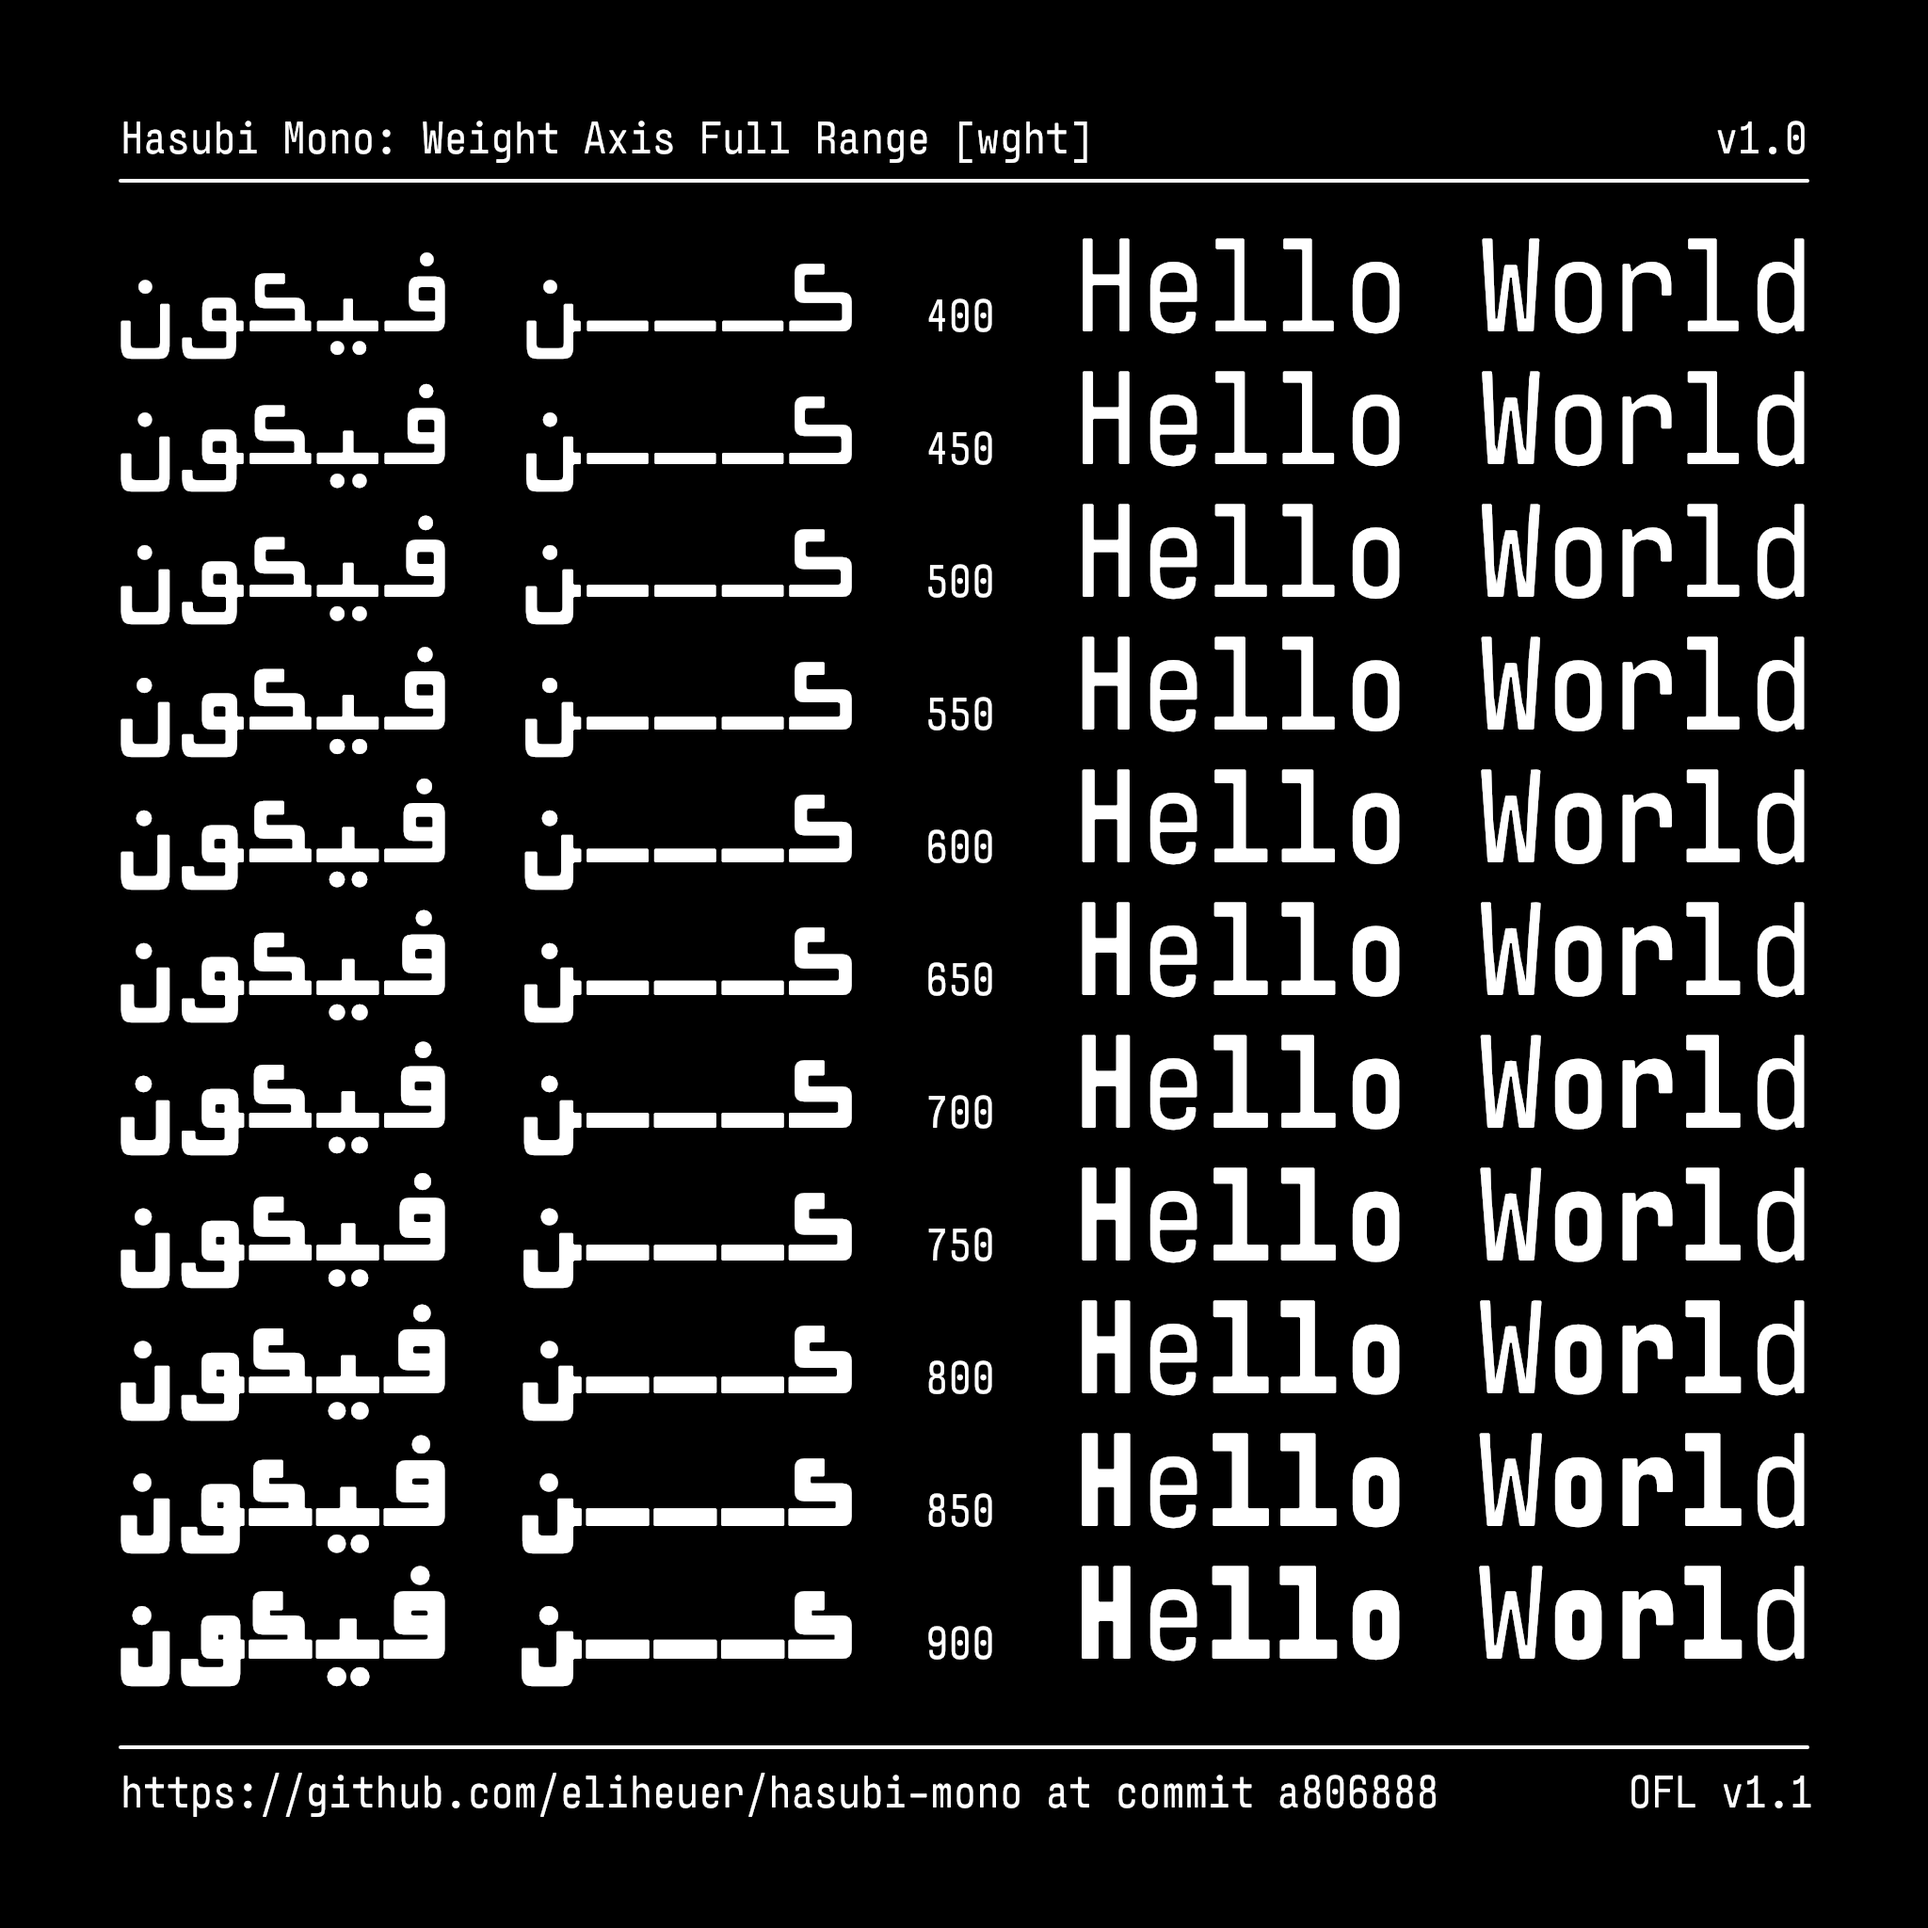
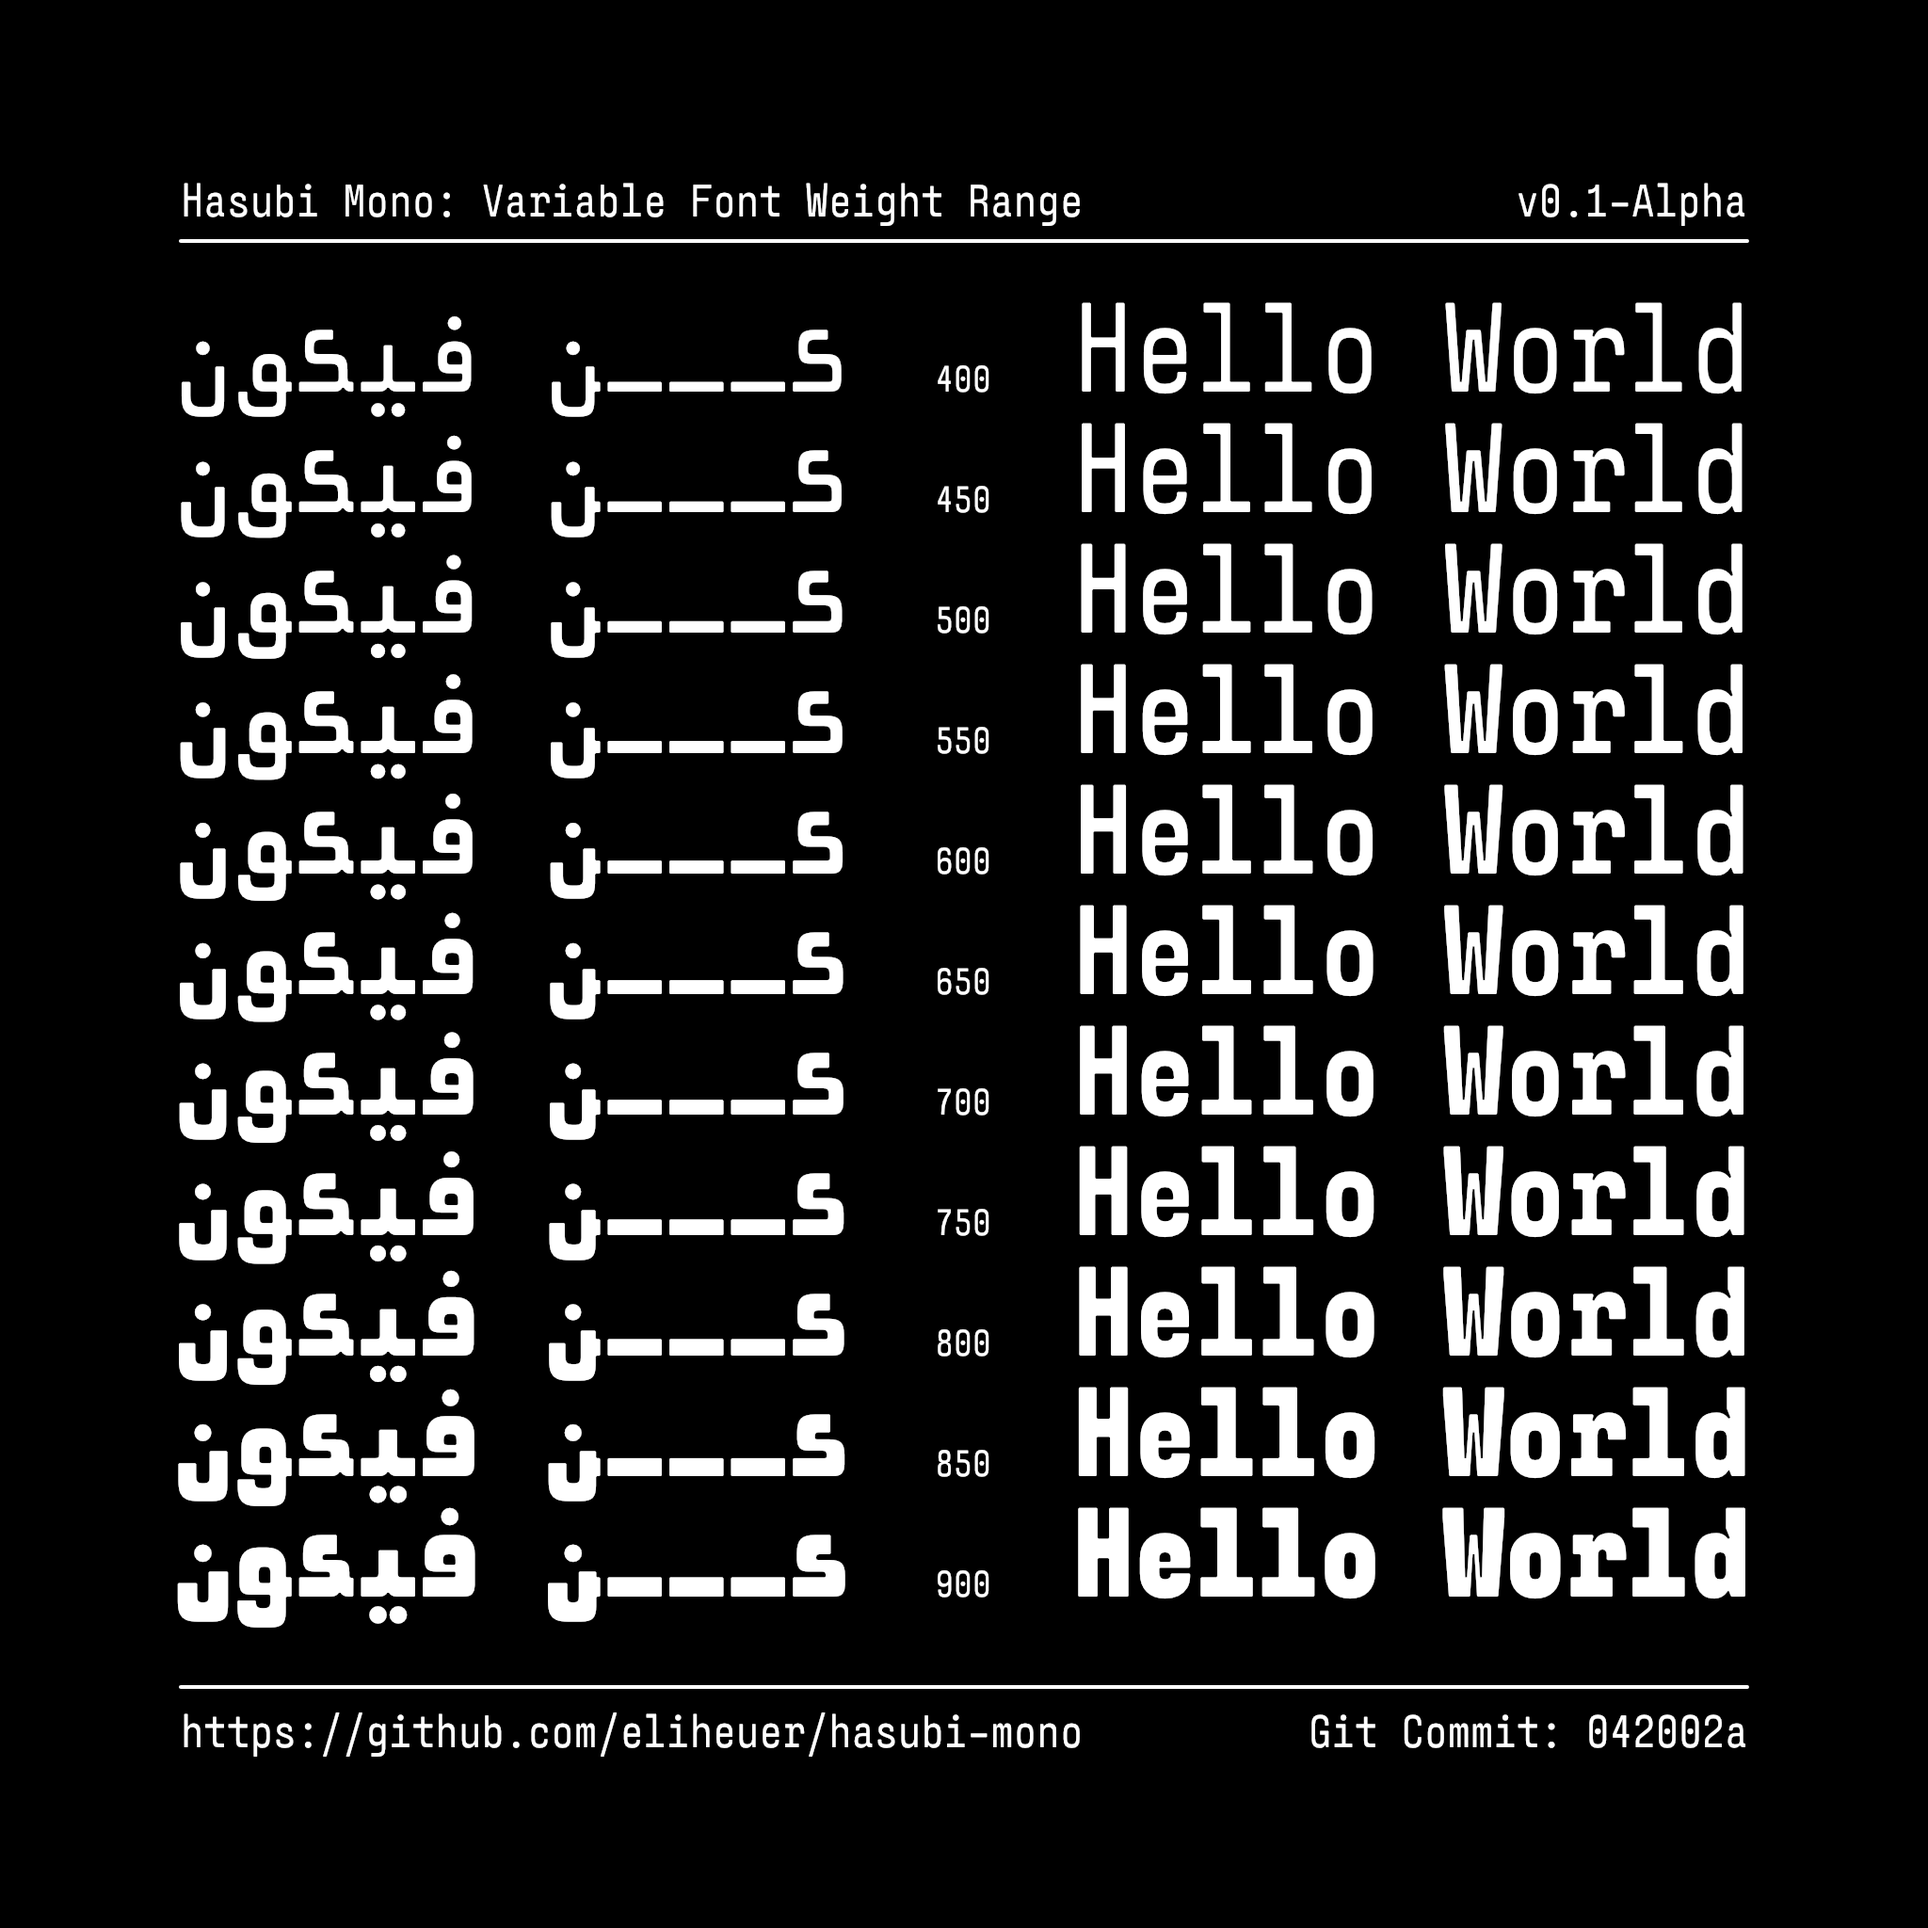
Add variable font demo to the main README

diff --git a/documentation/drawbot/square-image-002.py b/documentation/drawbot/square-image-002.py
@@ -93,24 +93,24 @@ def draw_main_text():
     #text("هـــــو الشافي الكافي المعين الغفور الرحيم", ((MARGIN-4)+MARGIN*13.55, TOP_TEXT))
 
     font_var = 400
-    TRACKING = 132
+    TRACKING = 128
     track = 128
     for i in range(11):
         fontVariations(wght = font_var)
-        text("Hello World", (MARGIN * 9, (MARGIN*13)-(i*TRACKING)))
+        text("Hello World", (MARGIN * 8.9, (MARGIN*12.75)-(i*TRACKING)))
         print("font_var = ", font_var)
         font_var += 50
     font_var = 400
     for i in range(11):
         fontVariations(wght = font_var)
-        text("كـــن فيكون", (MARGIN*7, (MARGIN*13)-(i*TRACKING)))
+        text("كـــن فيكون", (MARGIN*7.06, (MARGIN*12.75)-(i*TRACKING)))
         font_var += 50
 
     fontVariations(wght = 400)
     fontSize(77.5/2)
     font_weights = ["400","450","500","550","600","650","700","750","800","850","900","950"]
     for i in range(11):
-        text(font_weights[i], (MARGIN*7.75, (MARGIN*13)-(i*TRACKING)))
+        text(font_weights[i], (MARGIN*7.76, (MARGIN*12.75)-(i*TRACKING)))
 
 
 # Divider lines
@@ -135,7 +135,7 @@ def draw_auxiliary_text():
     AT_HASH = "Git Commit: " + MY_HASH
     AT_HASH = AT_HASH.replace("\n", " ")
     # Draw Text
-    text("Hasubi Mono Regular: Latin+Arabic Basic Character Set", POS_TOP_LEFT, align="left")
+    text("Hasubi Mono: Variable Font Weight Range", POS_TOP_LEFT, align="left")
     text("v0.1-Alpha", POS_TOP_RIGHT, align="right")
     text(MY_URL, POS_BOTTOM_LEFT, align="left")
     text(AT_HASH, POS_BOTTOM_RIGHT, align="right")

diff --git a/README.md b/README.md
@@ -20,6 +20,7 @@ Hasubi Mono (حاسوبي مونو) is a condensed horizontal contrast monospace
 
 ![Sample Image](documentation/drawbot/wide-image-002.png)
 ![Sample Image](documentation/drawbot/wide-image-004.png)
+![Sample Image](documentation/drawbot/square-image-002.png)
 ![Sample Image](documentation/drawbot/wide-image-001.png)
 
 ## Design Notes
